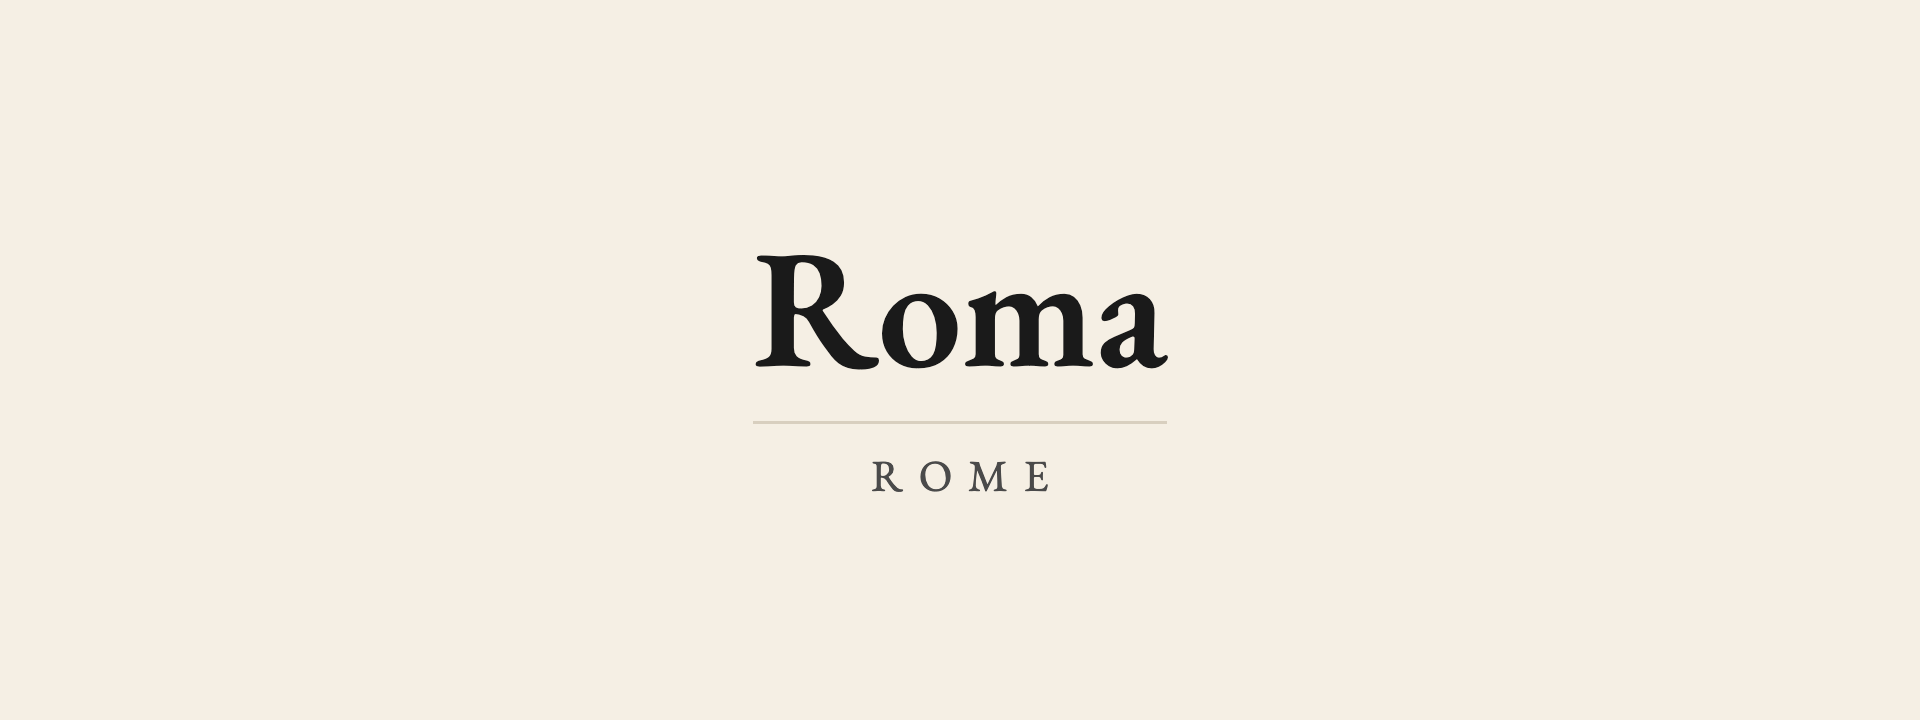
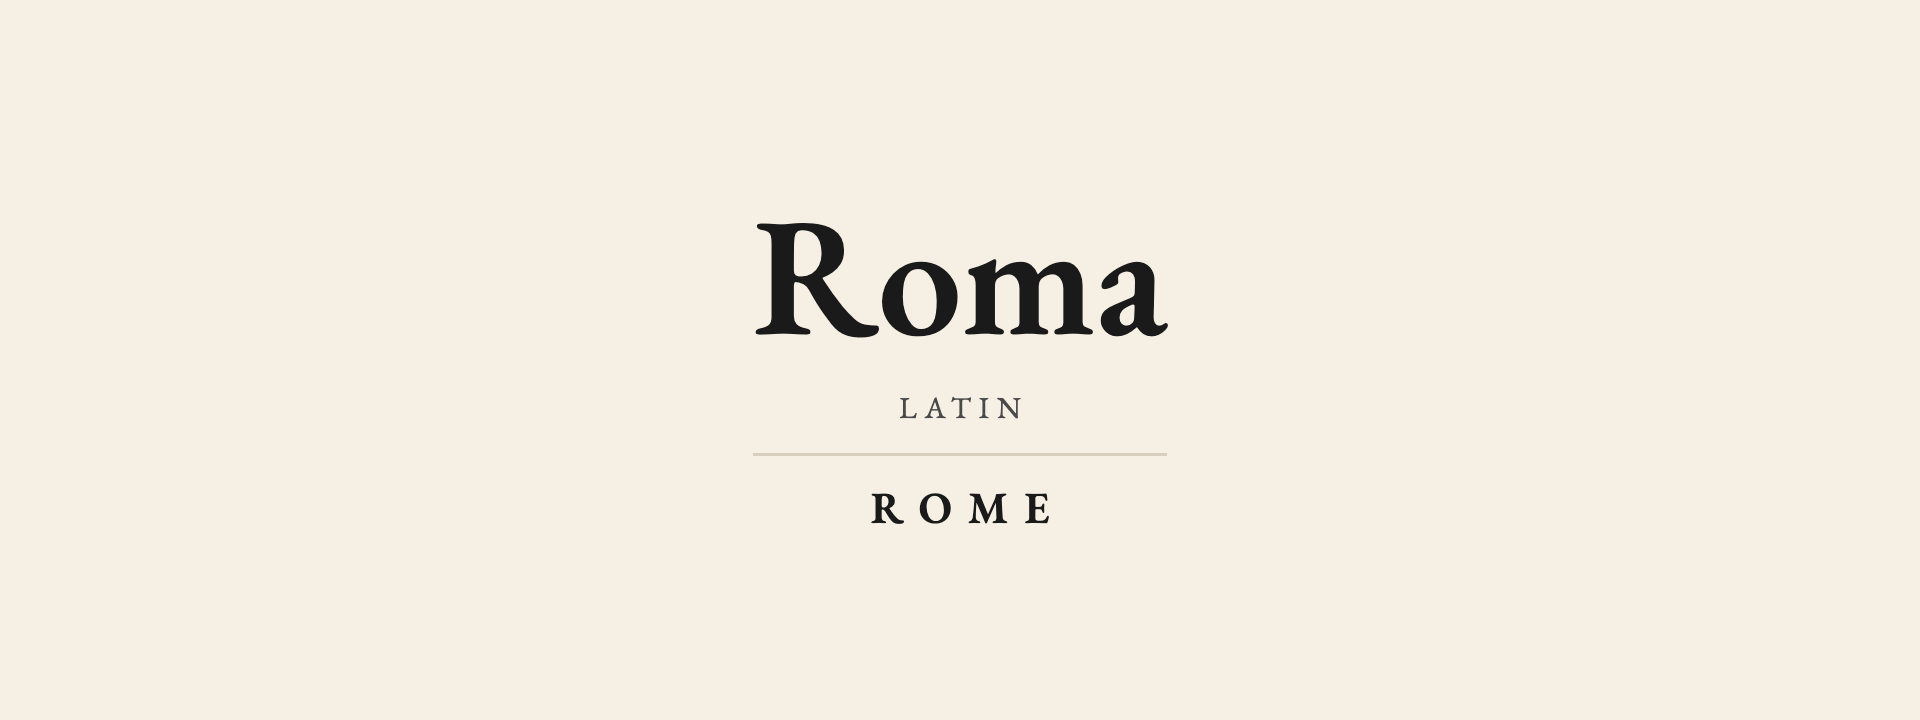
Standardize civilization title cards
Make the title card express the endonym's language below the transliteration on
every card (e.g. Middle Egyptian, Ancient Greek, Latin), and render the
civilization name bold and in full ink for more contrast. Add a vertical divider
between the two columns of the dual-endonym card (Persia), spanning the endonym
block only so it does not meet the horizontal rule above the name. Re-render all
five cards (Egypt, Greece, Nile, Rome via TitleCard; Persia via DualTitleCard).

Changed region(s): [[0.375, 0.3056, 0.625, 0.5194], [0.4062, 0.55, 0.5938, 0.7333]]

diff --git a/videos/src/DualTitleCard.tsx b/videos/src/DualTitleCard.tsx
@@ -46,11 +46,17 @@ export const DualTitleCard: React.FC<{ endonyms: Endonym[]; label: string }> = (
   return (
     <AbsoluteFill style={{ backgroundColor: PARCHMENT, justifyContent: "center", alignItems: "center" }}>
       <div style={{ display: "inline-block", textAlign: "center" }}>
-        <div style={{ display: "flex", justifyContent: "center", gap: 40 }}>
+        <div style={{ display: "flex", justifyContent: "center", alignItems: "stretch", gap: 40 }}>
           {endonyms.map((e, i) => {
             const line = SCRIPTS[e.script];
             return (
-              <div key={i} style={{ width: 540, textAlign: "center" }}>
+              <React.Fragment key={i}>
+                {/* vertical divider between columns; alignSelf stretch spans the
+                    column block only, so it ends above the horizontal rule below */}
+                {i > 0 ? (
+                  <div style={{ width: 2, backgroundColor: RULE, alignSelf: "stretch" }} />
+                ) : null}
+              <div style={{ width: 540, textAlign: "center" }}>
                 {/* fixed-height glyph row so the transliteration lines align across columns
                     even when the two scripts differ in height */}
                 <div style={{ height: 178, display: "flex", alignItems: "flex-end", justifyContent: "center" }}>
@@ -100,6 +106,7 @@ export const DualTitleCard: React.FC<{ endonyms: Endonym[]; label: string }> = (
                   </div>
                 ) : null}
               </div>
+              </React.Fragment>
             );
           })}
         </div>
@@ -109,14 +116,14 @@ export const DualTitleCard: React.FC<{ endonyms: Endonym[]; label: string }> = (
         <div
           style={{
             fontFamily: garamond,
-            fontWeight: 400,
+            fontWeight: 600,
             fontSize: 44,
             lineHeight: 1,
             marginTop: 30,
             letterSpacing: 16,
             paddingLeft: 16,
             textTransform: "uppercase",
-            color: INK_SOFT,
+            color: INK,
           }}
         >
           {label}

diff --git a/videos/src/TitleCard.tsx b/videos/src/TitleCard.tsx
@@ -52,6 +52,7 @@ export const titleCardSchema = z.object({
   script: z.enum(["egyptian-hieroglyphs", "old-persian", "greek", "latin"]),
   glyphs: z.string(), // the endonym in its original script (original_text)
   transliteration: z.string().optional(), // italic accent line (Kemet, Hellás, Pārsa); omit for Latin-script endonyms whose original IS the romanization (e.g. Roma)
+  language: z.string(), // the endonym's language, shown below the transliteration (Middle Egyptian, Ancient Greek, Latin, ...)
   label: z.string(), // the uppercase English entity name
 });
 
@@ -59,6 +60,7 @@ export const TitleCard: React.FC<z.infer<typeof titleCardSchema>> = ({
   script,
   glyphs,
   transliteration,
+  language,
   label,
 }) => {
   const line = SCRIPTS[script];
@@ -102,19 +104,37 @@ export const TitleCard: React.FC<z.infer<typeof titleCardSchema>> = ({
           </div>
         ) : null}
 
+        {/* The endonym's language is always expressed, below the transliteration
+            (or below the glyphs when there is no transliteration, as for Latin). */}
+        <div
+          style={{
+            fontFamily: garamond,
+            fontWeight: 400,
+            fontSize: 30,
+            lineHeight: 1,
+            marginTop: transliteration ? 22 : 34,
+            letterSpacing: 8,
+            paddingLeft: 8,
+            textTransform: "uppercase",
+            color: INK_SOFT,
+          }}
+        >
+          {language}
+        </div>
+
         <div style={{ marginTop: 30, height: 3, width: "100%", backgroundColor: RULE }} />
 
         <div
           style={{
             fontFamily: garamond,
-            fontWeight: 400,
+            fontWeight: 600,
             fontSize: 44,
             lineHeight: 1,
             marginTop: 30,
             letterSpacing: 16,
             paddingLeft: 16,
             textTransform: "uppercase",
-            color: INK_SOFT,
+            color: INK,
           }}
         >
           {label}

diff --git a/videos/src/Root.tsx b/videos/src/Root.tsx
@@ -31,6 +31,7 @@ export const RemotionRoot: React.FC = () => {
           script: "egyptian-hieroglyphs" as const,
           glyphs: "𓆎𓅓𓏏",
           transliteration: "Kemet",
+          language: "Middle Egyptian",
           label: "Egypt",
         }}
       />
